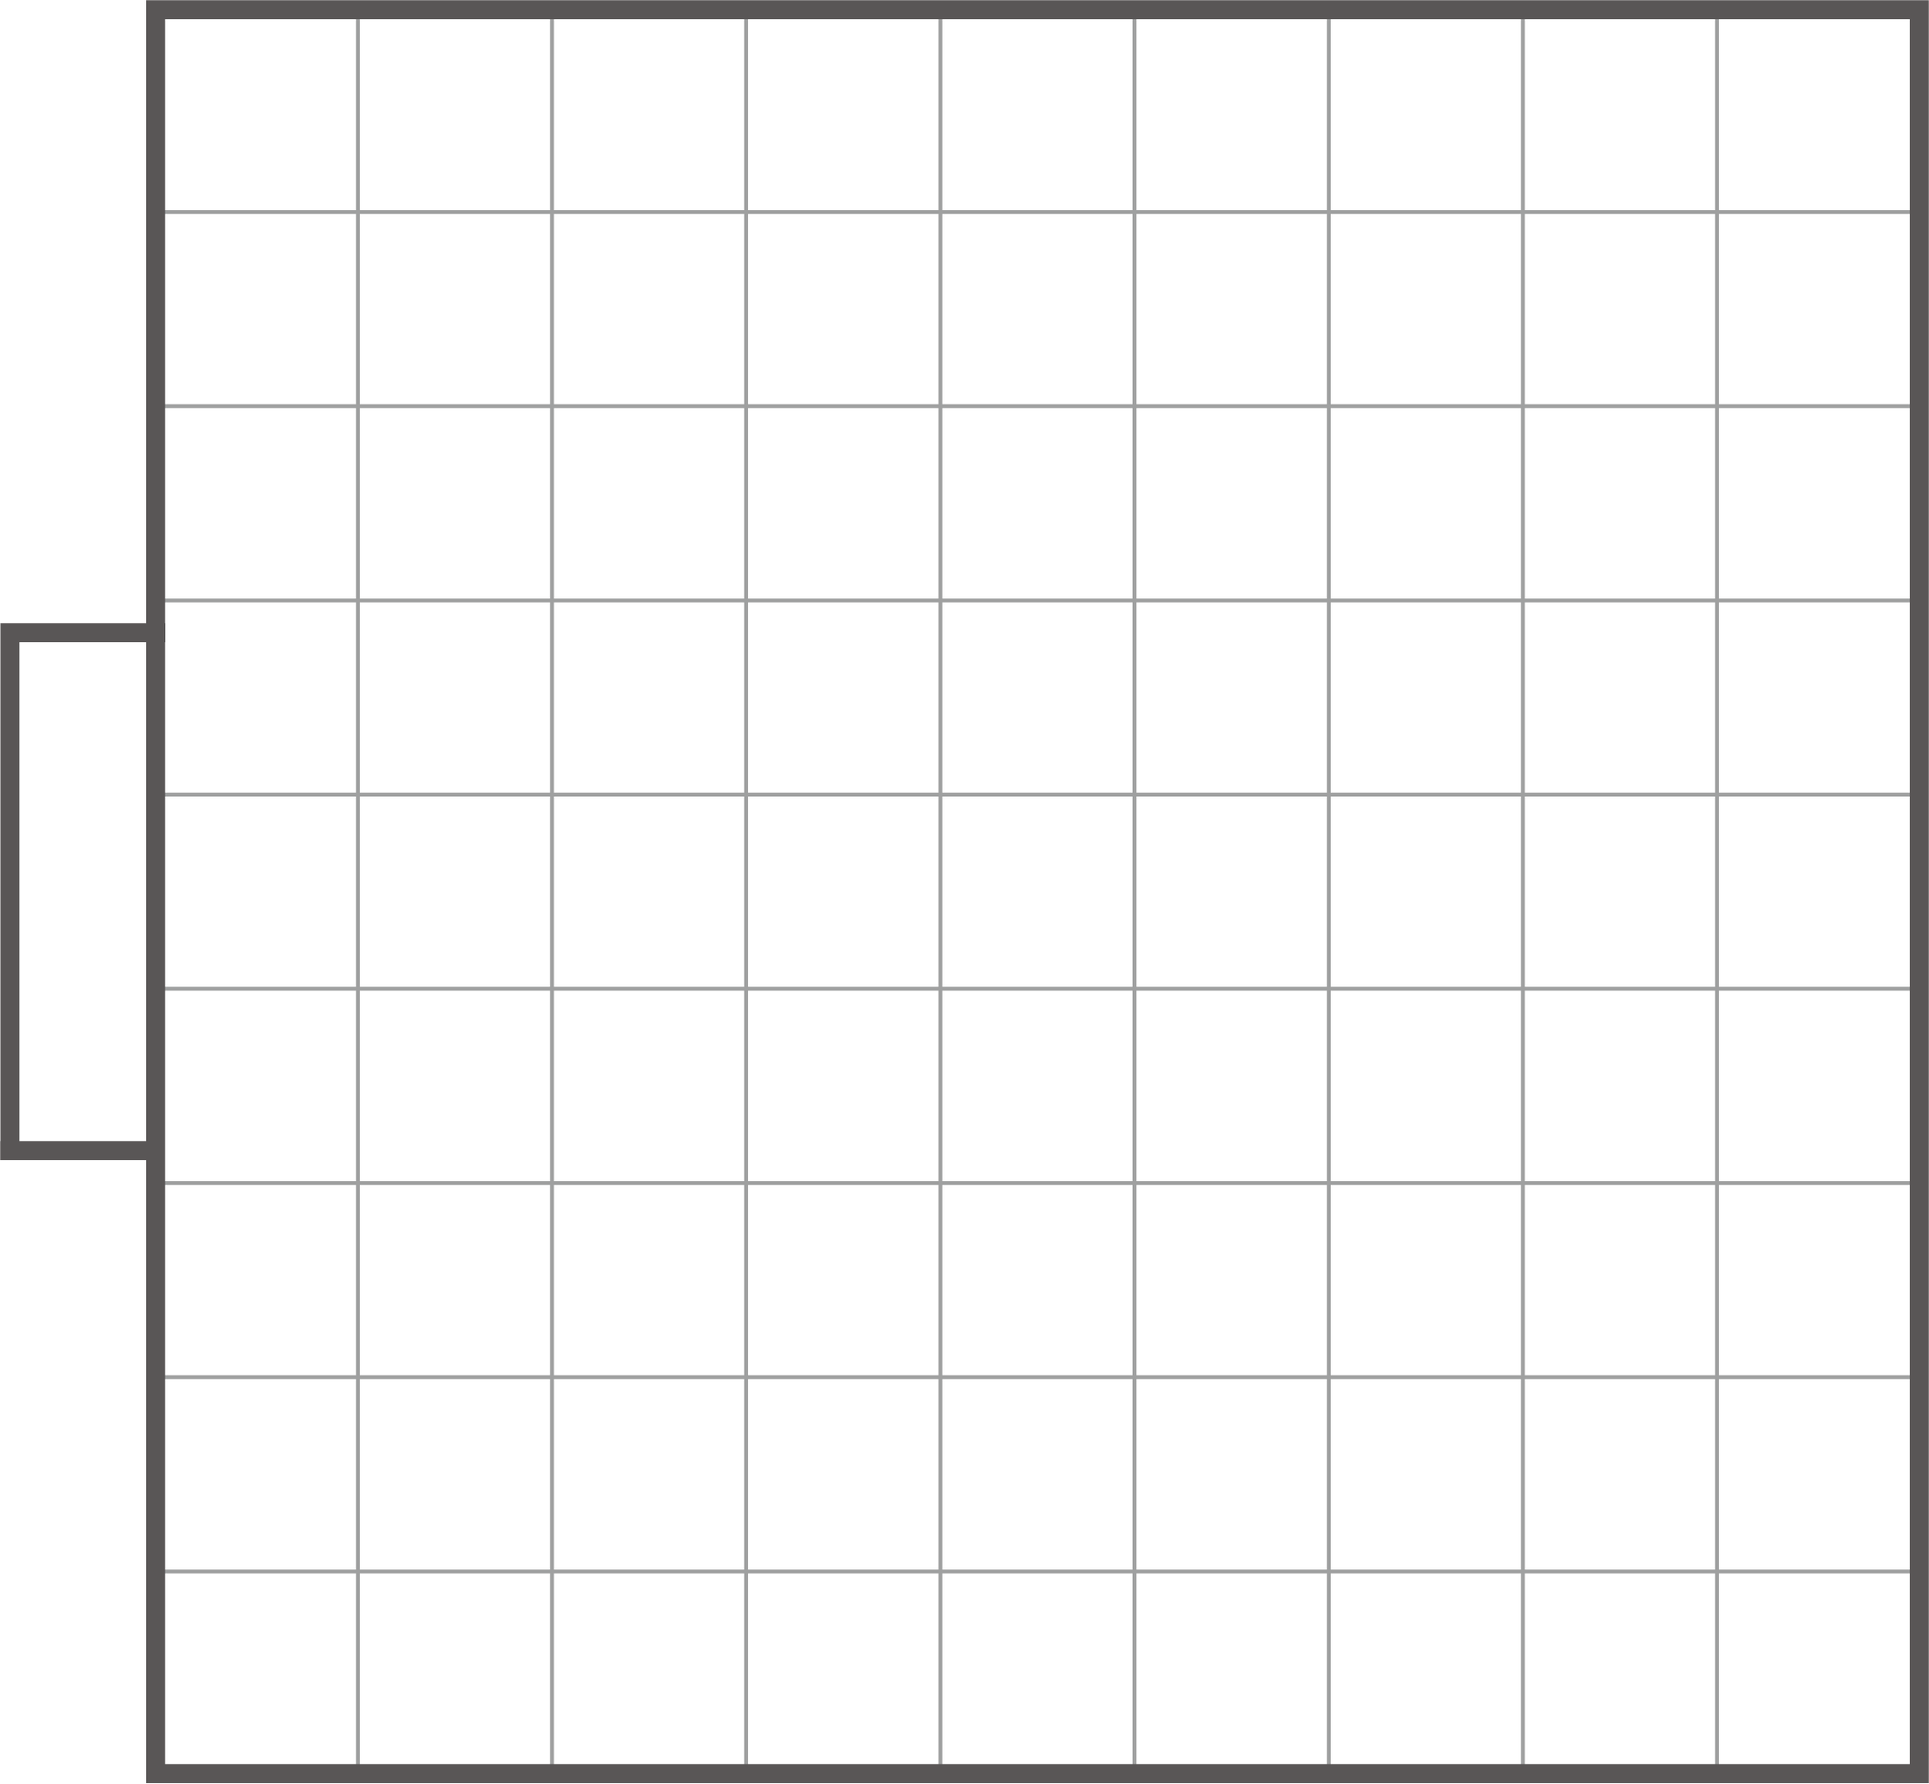
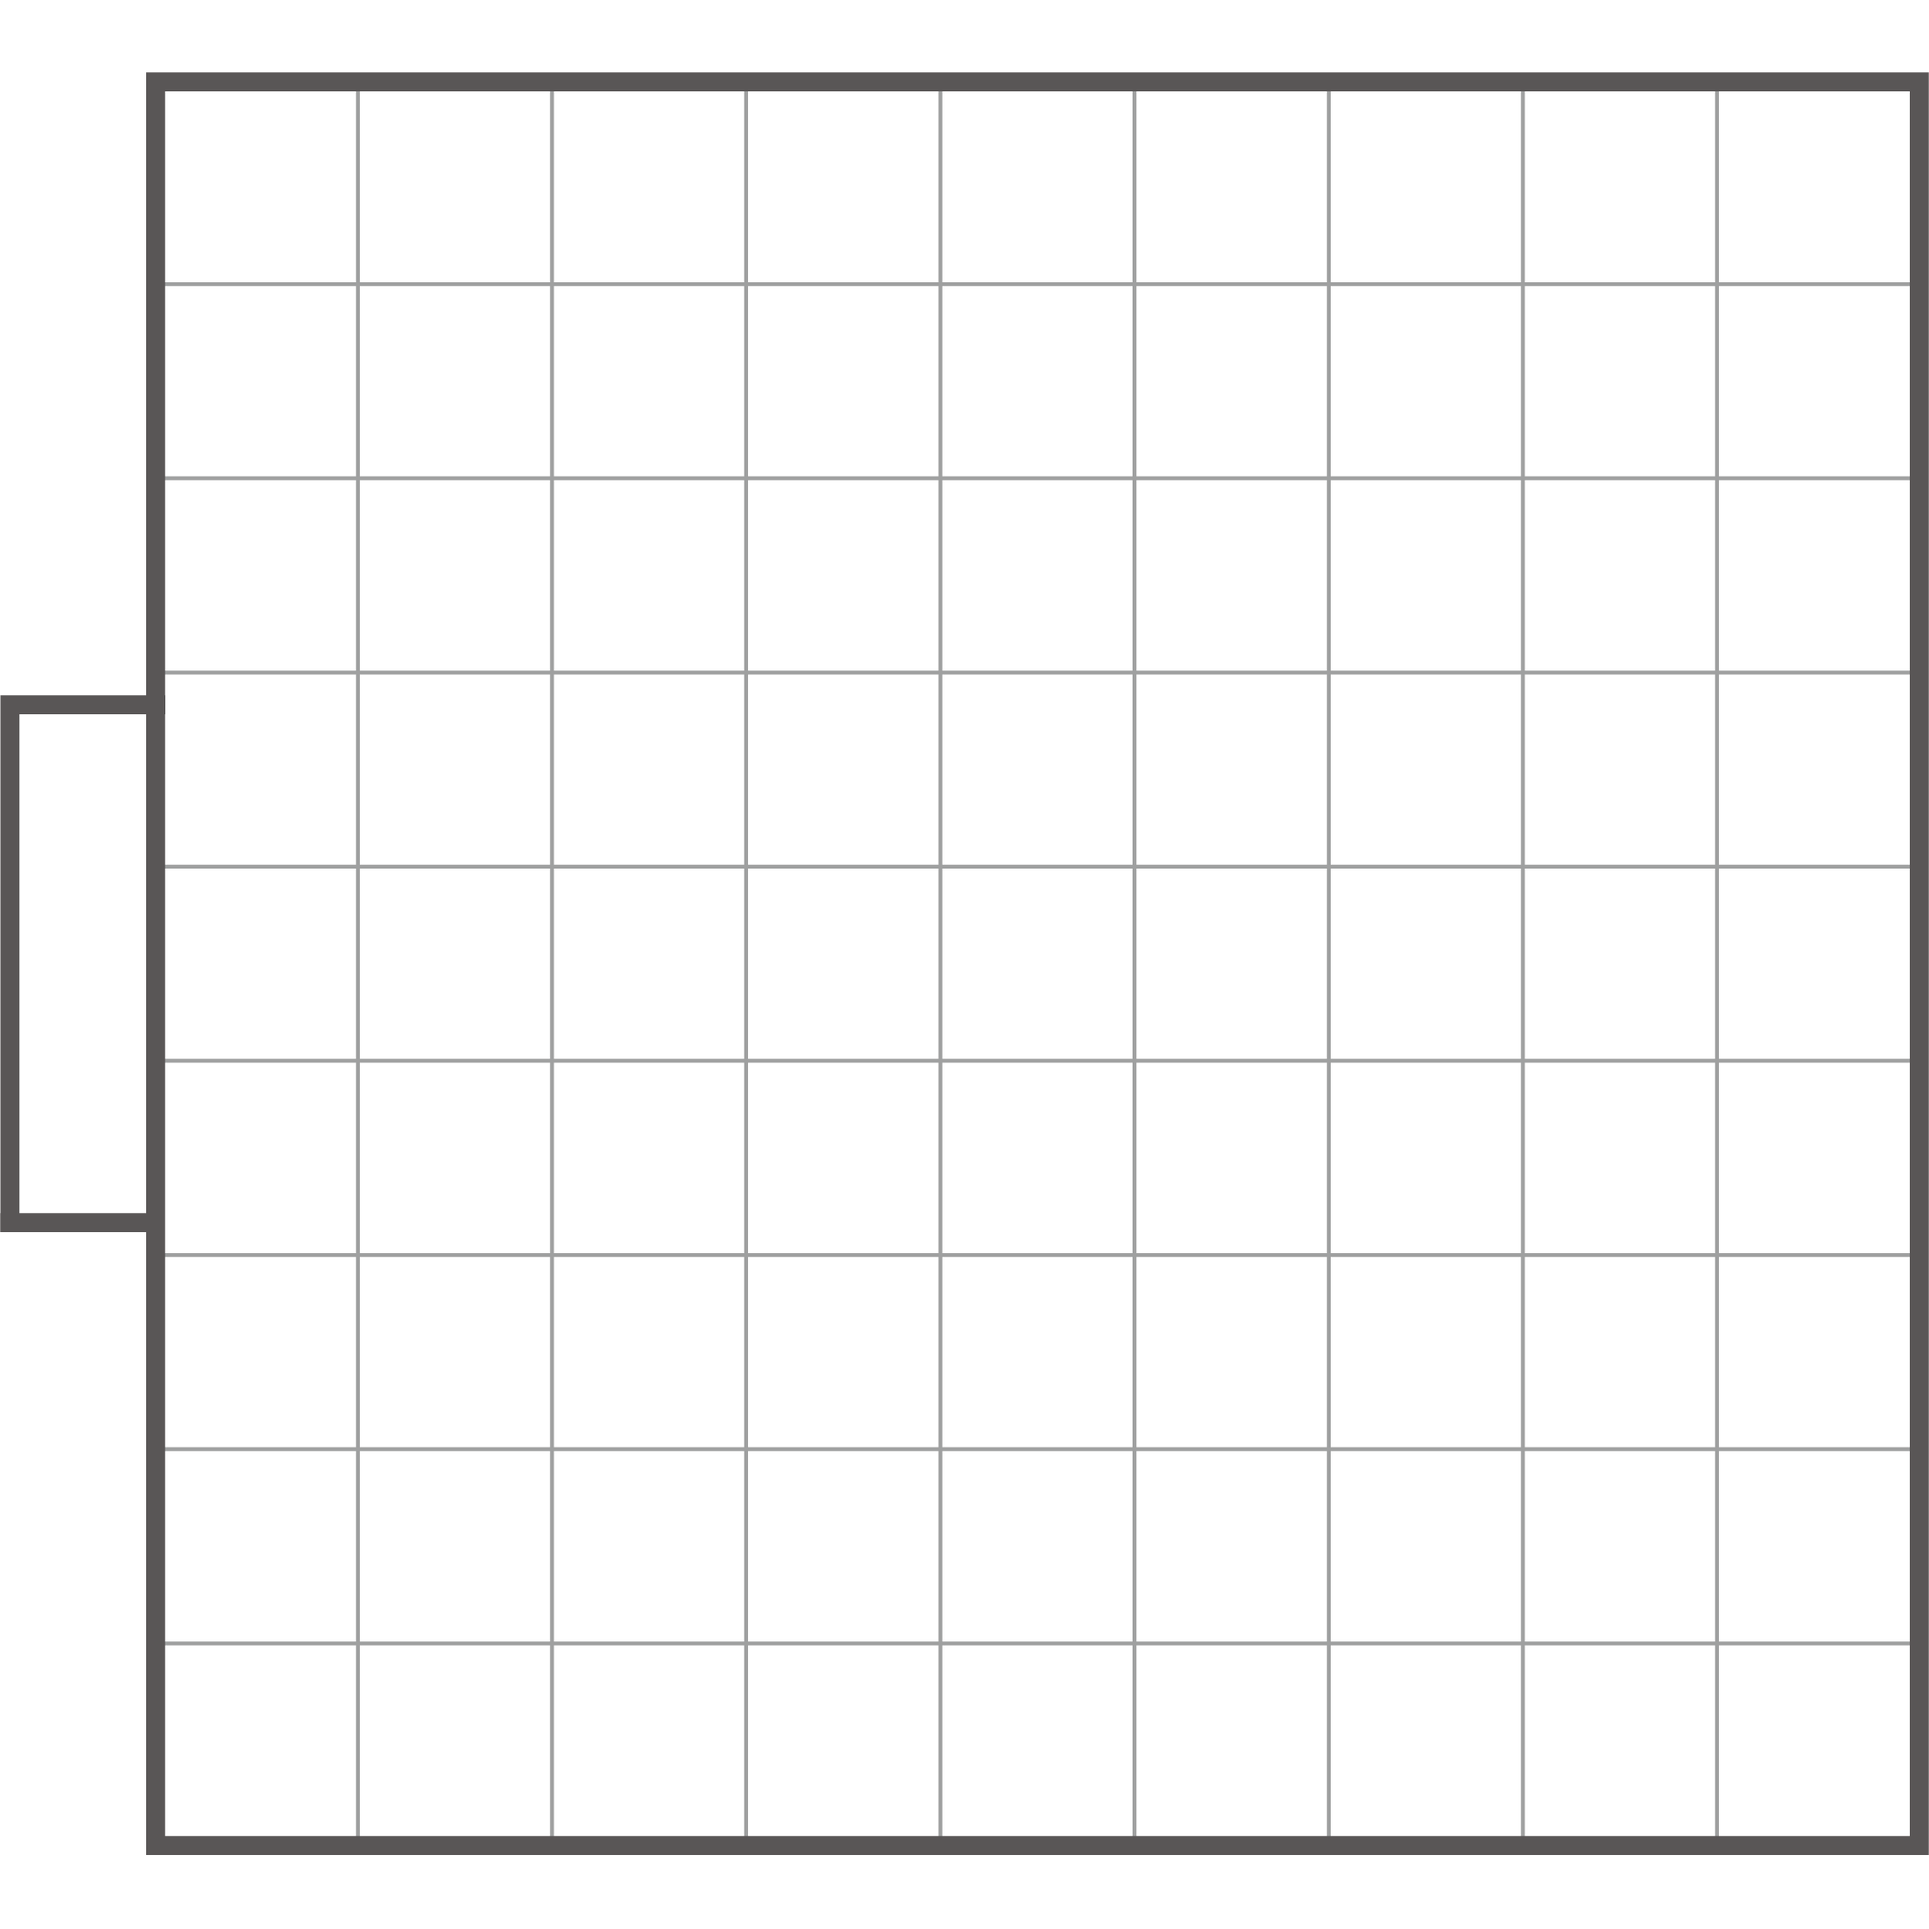
キャンバスアップデート

diff --git a/src/UI/ILS_Controller.java b/src/UI/ILS_Controller.java
@@ -2,11 +2,21 @@ package UI;
 
 import javafx.event.ActionEvent;
 import javafx.fxml.FXML;
+import javafx.fxml.Initializable;
+import javafx.scene.canvas.Canvas;
+import javafx.scene.canvas.GraphicsContext;
 import javafx.scene.control.Button;
 import javafx.scene.control.Label;
+import javafx.scene.control.SplitPane;
 import javafx.scene.control.ToggleButton;
+import javafx.scene.image.Image;
+import javafx.scene.layout.AnchorPane;
+import javafx.scene.paint.Color;
 
-public class ILS_Controller {
+import java.net.URL;
+import java.util.ResourceBundle;
+
+public class ILS_Controller implements Initializable {
     @FXML
     ToggleButton att_btn_a, att_btn_b, att_btn_c, att_btn_d, att_btn_e, att_btn_f;
     @FXML
@@ -19,6 +29,19 @@ public class ILS_Controller {
     Label ill_lbl_a, ill_lbl_b, ill_lbl_c, ill_lbl_d, ill_lbl_e, ill_lbl_f;
     @FXML
     Label till_lbl_a, till_lbl_b, till_lbl_c, till_lbl_d, till_lbl_e, till_lbl_f;
+    @FXML
+    Canvas canvas;
+    @FXML
+    AnchorPane left_pane;
+    @FXML
+    SplitPane split_pane;
+
+    @Override
+    public void initialize(URL location, ResourceBundle resources) {
+        left_pane.widthProperty().addListener((observableValue, o, n) -> resizeCanvas());
+        left_pane.heightProperty().addListener((observableValue, o, n) -> resizeCanvas());
+    }
+
 
     // 在離席更新
     public void changeAttendance() {
@@ -58,4 +81,32 @@ public class ILS_Controller {
     public void changeTargetIlluminanceBySensor() {
 
     }
+
+    // キャンバスをリサイズ
+    public void resizeCanvas() {
+        double pane_w = left_pane.getWidth();
+        double pane_h = left_pane.getHeight()-110;
+        double size = pane_h < pane_w ? pane_h : pane_w;
+        canvas.setHeight(size);
+        canvas.setWidth(size);
+        canvas.setLayoutX((pane_w-size)/2);
+        canvas.setLayoutY((pane_h-size)/2);
+
+        updateCanvas();
+    }
+
+    // キャンバスをアップデート
+    public void updateCanvas() {
+        double size = canvas.getWidth();
+        GraphicsContext gc= canvas.getGraphicsContext2D();
+
+
+        // グリッド・照明・照度センサを描画
+        // ToDo: 画像やめよう
+        Image img =  new Image("UI/img/project_KICK.png");
+        gc.drawImage(img, 0, 0, size, size);
+
+        // 点灯パターンを描画
+    }
+
 }

diff --git a/src/UI/Main.java b/src/UI/Main.java
@@ -1,6 +1,8 @@
 package UI;
 
 import javafx.application.Application;
+import javafx.beans.value.ChangeListener;
+import javafx.beans.value.ObservableValue;
 import javafx.fxml.FXMLLoader;
 import javafx.scene.Parent;
 import javafx.scene.Scene;
@@ -15,12 +17,20 @@ public class Main extends Application {
         Parent root = FXMLLoader.load(getClass().getResource("main.fxml"));
         primaryStage.setTitle("Intelligent Lighting System ILS_Controller");
         primaryStage.setScene(new Scene(root, 1200, 700));
+        primaryStage.setMaximized(false);  // 起動時に最大化しておくにはここをTrueに
         primaryStage.setMinHeight(750);
         primaryStage.setMinWidth(1000);
+
+        // ウィンドウサイズのリスナー
+        // primaryStage.getScene().widthProperty().addListener((observableValue, oldWidth, newWidth) -> System.out.println("Width: " + newWidth));
+        // primaryStage.getScene().heightProperty().addListener((observableValue, oldHeight, newHeight) -> System.out.println("Height: " + newHeight));
 
         // アイコン設定
         final Image image = new Image(getClass().getClassLoader().getResourceAsStream("UI/img/icon.png"));
         primaryStage.getIcons().add(image);
+
+        // コントローラ初期化
+
 
         primaryStage.show();
     }
